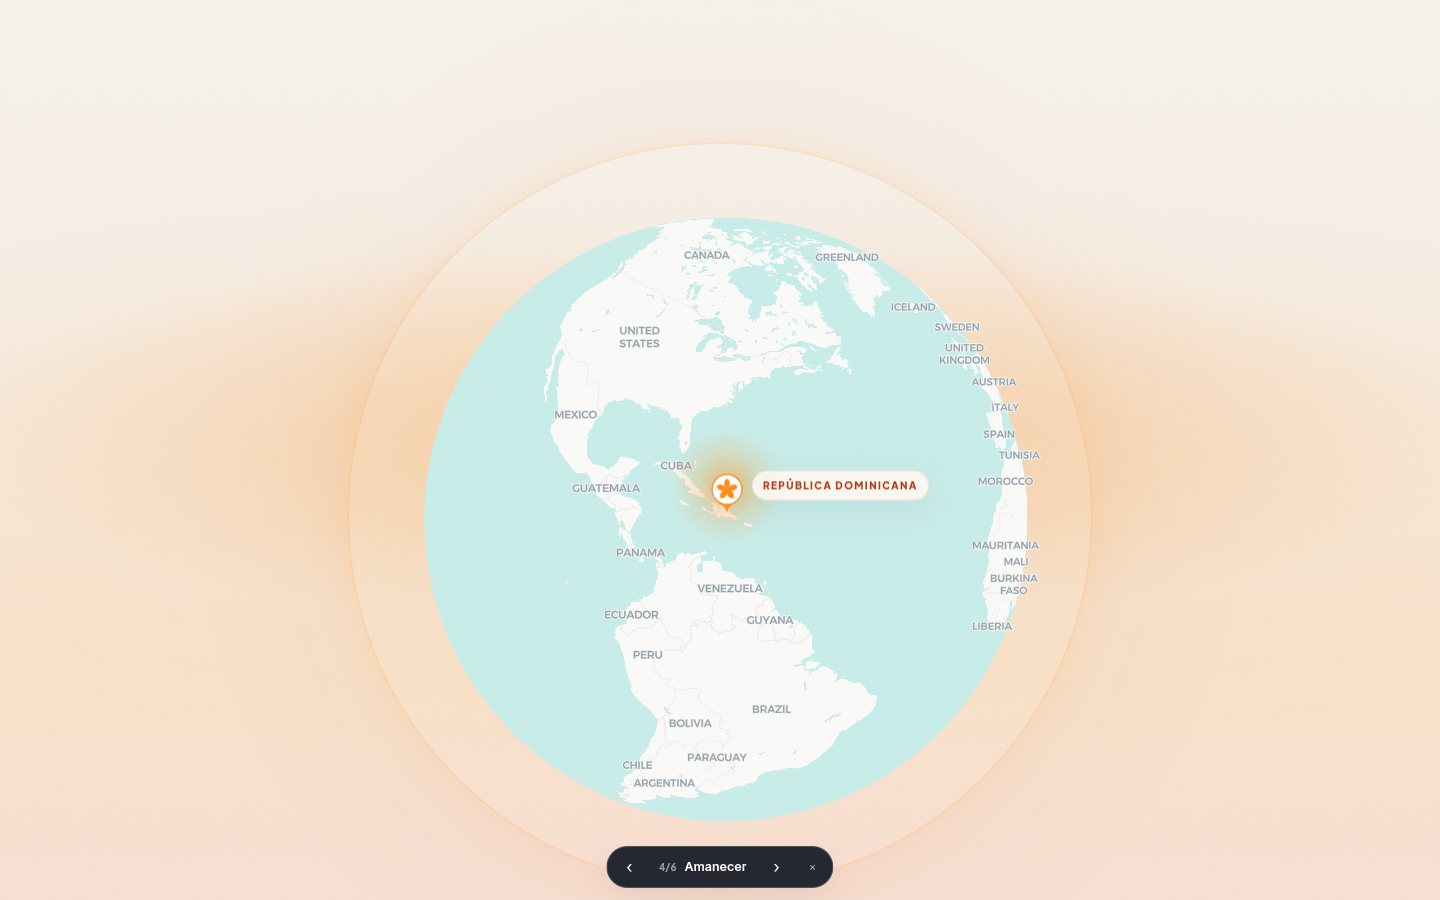
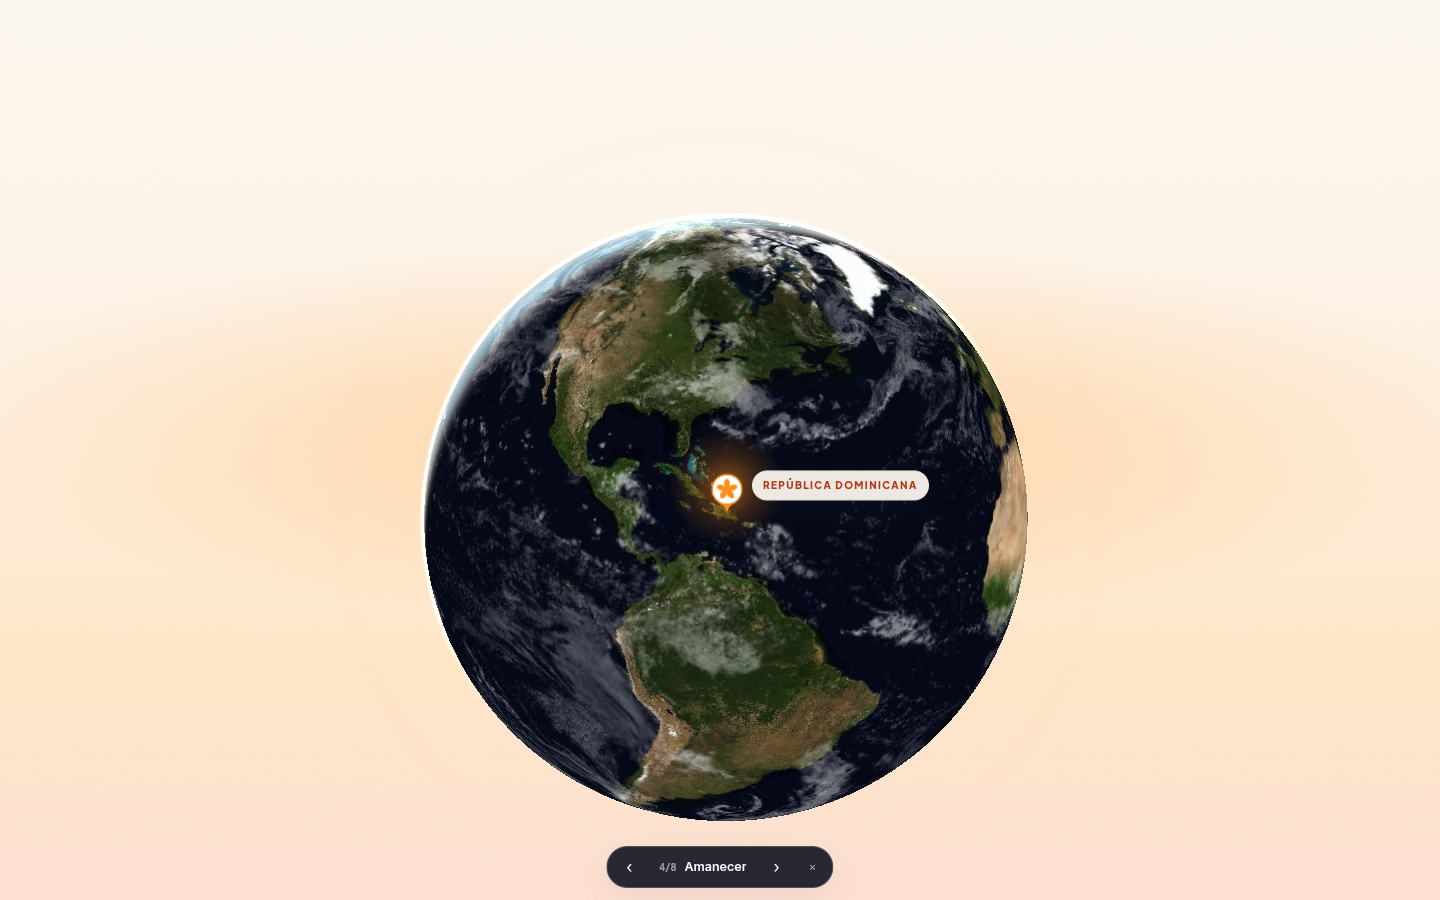
feat(heroes): amanecer desde el espacio, con la Tierra de la NASA, nubes y atmósfera

Changed region(s): [[0.2812, 0.2178, 0.7188, 0.9333]]

diff --git a/src/app/heroes/amanecer/Espacio.tsx b/src/app/heroes/amanecer/Espacio.tsx
@@ -1,0 +1,120 @@
+"use client";
+
+import { useEffect, useRef } from "react";
+import type maplibregl from "maplibre-gl";
+import { useMap } from "@/components/map/context";
+import { useDescenso } from "../_components/GloboHero";
+
+// ─────────────────────────────────────────────────────────────────────────────
+//  La Tierra de verdad sobre el globo del journey.
+//
+//  Tres capas encima del estilo de marca, todas de la NASA:
+//   · `noche`: Black Marble (luces de ciudad, VIIRS 2012). Es lo que se ve
+//     desde el espacio mientras manda el hero: el país es sus luces.
+//   · `dia`: Blue Marble Next Generation. Entra con el amanecer.
+//   · `nubes`: el mapa global de nubes, reproyectado a Mercator y con el
+//     brillo convertido en alfa (public/assets/nubes.webp).
+//
+//  Las teselas vienen de GIBS (gibs.earthdata.nasa.gov), sin clave y con CORS
+//  abierto, hasta el nivel 8: de sobra para el vuelo, que las suelta antes del
+//  primer plano. Al bajar, las opacidades siguen a `--descenso`: luces → día →
+//  mapa de marca, así que la cámara aterriza en el estilo del sitio.
+// ─────────────────────────────────────────────────────────────────────────────
+
+const GIBS = "https://gibs.earthdata.nasa.gov/wmts/epsg3857/best";
+const TESELAS = (capa: string) =>
+  `${GIBS}/${capa}/default/500m/GoogleMapsCompatible_Level8/{z}/{y}/{x}.jpg`;
+
+/** Esquinas del mapa de nubes: el mundo entero en Mercator. */
+const MUNDO: [[number, number], [number, number], [number, number], [number, number]] = [
+  [-180, 85.0511],
+  [180, 85.0511],
+  [180, -85.0511],
+  [-180, -85.0511],
+];
+
+const clamp01 = (x: number) => (x < 0 ? 0 : x > 1 ? 1 : x);
+/** 0 en `a`, 1 en `b`, lineal entre medias. */
+const rampa = (t: number, a: number, b: number) => clamp01((t - a) / (b - a));
+
+/** Opacidad de cada capa según el descenso (0 = hero, 1 = aterrizaje).
+ *  Las nubes se van antes que la Tierra de día: la textura es de 1024 px y de
+ *  cerca se rompe en bloques. El día cede al mapa de marca antes de que las
+ *  teselas de nivel 8 se vean borrosas; las etiquetas del estilo vuelven justo
+ *  después, cuando ya se aterriza sobre el mapa del sitio. */
+function opacidades(t: number) {
+  return {
+    noche: 1 - rampa(t, 0.12, 0.42),
+    dia: Math.min(rampa(t, 0.08, 0.36), 1 - rampa(t, 0.5, 0.72)),
+    // De noche las nubes se insinúan; con el día se ven enteras.
+    nubes: (0.42 + 0.5 * rampa(t, 0.08, 0.36)) * (1 - rampa(t, 0.4, 0.58)),
+    etiquetas: rampa(t, 0.62, 0.82),
+  };
+}
+
+export default function Espacio() {
+  const map = useMap();
+  const { t } = useDescenso();
+  const listo = useRef(false);
+  /** Capas de texto e iconos del estilo de marca, que la imagen tapa. */
+  const simbolos = useRef<string[]>([]);
+
+  const pintarEtiquetas = (m: maplibregl.Map, op: number) => {
+    for (const id of simbolos.current) {
+      m.setPaintProperty(id, "text-opacity", op);
+      m.setPaintProperty(id, "icon-opacity", op);
+    }
+  };
+
+  // Fuentes y capas, una vez. El mapa llega ya cargado (el contexto se monta
+  // tras `load`), así que se puede añadir directamente.
+  useEffect(() => {
+    if (!map) return;
+    const inicial = opacidades(0);
+
+    map.addSource("nasa-noche", { type: "raster", tiles: [TESELAS("VIIRS_CityLights_2012")], tileSize: 256, maxzoom: 8 });
+    map.addSource("nasa-dia", { type: "raster", tiles: [TESELAS("BlueMarble_NextGeneration")], tileSize: 256, maxzoom: 8 });
+    map.addSource("nasa-nubes", { type: "image", url: "/assets/nubes.webp", coordinates: MUNDO });
+
+    map.addLayer({ id: "espacio-dia", type: "raster", source: "nasa-dia", paint: { "raster-opacity": inicial.dia, "raster-fade-duration": 0 } });
+    map.addLayer({ id: "espacio-noche", type: "raster", source: "nasa-noche", paint: { "raster-opacity": inicial.noche, "raster-fade-duration": 0 } });
+    map.addLayer({ id: "espacio-nubes", type: "raster", source: "nasa-nubes", paint: { "raster-opacity": inicial.nubes, "raster-fade-duration": 0 } });
+
+    // Las etiquetas del estilo (continentes, países) se apagan mientras manda
+    // la imagen: sobre la Tierra de verdad, "NORTH AMERICA" en gris sobra.
+    simbolos.current = (map.getStyle().layers ?? []).filter((l) => l.type === "symbol").map((l) => l.id);
+    pintarEtiquetas(map, inicial.etiquetas);
+
+    // La atmósfera del globo, que GloboHero apaga para recortar el planeta
+    // limpio contra el crema. Aquí el planeta está en el espacio y la quiere.
+    map.setSky({ "atmosphere-blend": 1 });
+    listo.current = true;
+
+    return () => {
+      listo.current = false;
+      if (!map.getStyle()) return;
+      for (const id of ["espacio-nubes", "espacio-noche", "espacio-dia"]) {
+        if (map.getLayer(id)) map.removeLayer(id);
+      }
+      for (const id of ["nasa-nubes", "nasa-noche", "nasa-dia"]) {
+        if (map.getSource(id)) map.removeSource(id);
+      }
+      pintarEtiquetas(map, 1);
+      map.setSky({ "atmosphere-blend": 0 });
+    };
+  }, [map]);
+
+  // El crossfade sigue al scroll.
+  useEffect(() => {
+    if (!map || !listo.current) return;
+    const op = opacidades(t);
+    map.setPaintProperty("espacio-noche", "raster-opacity", op.noche);
+    map.setPaintProperty("espacio-dia", "raster-opacity", op.dia);
+    map.setPaintProperty("espacio-nubes", "raster-opacity", op.nubes);
+    pintarEtiquetas(map, op.etiquetas);
+    // La atmósfera se queda hasta que el planeta llena la pantalla.
+    map.setSky({ "atmosphere-blend": 1 - rampa(t, 0.5, 0.8) });
+  }, [map, t]);
+
+  return null;
+}

diff --git a/src/app/heroes/amanecer/estilos.module.css b/src/app/heroes/amanecer/estilos.module.css
@@ -46,7 +46,11 @@
   position: absolute;
   inset: 0;
   opacity: var(--noche-op);
-  background: linear-gradient(180deg, #090f1b 0%, #0f1a2e 58%, #1a2540 100%);
+  /* Estrellas estáticas sobre la tinta. La imagen se generó una vez
+     (public/assets/estrellas.png) y no se anima: el cielo no parpadea. */
+  background:
+    url("/assets/estrellas.png") center / cover no-repeat,
+    linear-gradient(180deg, #070c17 0%, #0f1a2e 62%, #1a2540 100%);
 }
 
 /* El día: el cielo cálido de la web, que va cubriendo la noche conforme se
@@ -82,7 +86,9 @@
   pointer-events: none;
 }
 
-/* El limbo: un filo de luz y dos halos, todos por fuera de la silueta. */
+/* El filo del amanecer sobre el limbo. La atmósfera de verdad (el halo azul
+   del globo) la dibuja MapLibre; esto es sólo la luz cálida que entra con el
+   día, por fuera de la silueta. */
 .atmosfera {
   position: absolute;
   left: 50%;
@@ -91,11 +97,11 @@
   height: calc(var(--globo-r) * 2);
   margin: calc(var(--globo-r) * -1) 0 0 calc(var(--globo-r) * -1);
   border-radius: 50%;
-  opacity: var(--noche-op);
+  opacity: calc(min(1, 0.35 + var(--t) * 2.2) * max(0, var(--noche-op)));
   box-shadow:
-    0 0 0 1.5px rgba(255, 141, 22, 0.85),
-    0 0 28px 5px rgba(255, 141, 22, 0.5),
-    0 0 130px 34px rgba(224, 85, 47, 0.26);
+    0 0 0 1px rgba(255, 141, 22, 0.55),
+    0 0 30px 6px rgba(255, 141, 22, 0.32),
+    0 0 130px 34px rgba(224, 85, 47, 0.2);
 }
 
 /* ═══ Overlay ═════════════════════════════════════════════════════════════ */
@@ -171,6 +177,23 @@
   background: var(--color-coral);
   color: var(--color-paper);
   flex: none;
+}
+
+/* Crédito de las imágenes: obligatorio para GIBS. En producción iría al pie
+   del sitio con el resto de créditos fotográficos. */
+.credito {
+  position: absolute;
+  right: 16px;
+  top: 26px;
+  color: rgba(255, 255, 255, 0.55);
+  opacity: calc(1 - var(--t) * 4);
+}
+
+@media (min-width: 900px) {
+  .credito {
+    top: auto;
+    bottom: 12px;
+  }
 }
 
 /* ═══ Marcadores ══════════════════════════════════════════════════════════ */

diff --git a/src/app/heroes/amanecer/page.tsx b/src/app/heroes/amanecer/page.tsx
@@ -3,6 +3,7 @@ import GloboHero from "../_components/GloboHero";
 import CapaHero from "./CapaHero";
 import Cielo from "./Cielo";
 import Contenido from "./Contenido";
+import Espacio from "./Espacio";
 import Marcadores from "./Marcadores";
 import s from "./estilos.module.css";
 
@@ -15,11 +16,13 @@ export const metadata: Metadata = {
  * «Amanecer»: el planeta de noche, visto desde el espacio.
  *
  * Misma geometría que Horizonte (el canvas baja para que sólo asome el
- * casquete y vuelve a su sitio al descender), pero el cielo es de tinta y el
- * limbo está encendido: lo único que se ve del país es un punto de luz. Al
- * bajar amanece: la tinta se disuelve en el crema del sitio mientras el
- * planeta sube y la cámara aterriza. El hero es la única superficie oscura de
- * la home y el descenso es la transición de tema, una sola vez y con motivo.
+ * casquete y vuelve a su sitio al descender), pero el planeta está en el
+ * espacio: estrellas, la Tierra de noche con sus luces de ciudad, nubes y la
+ * atmósfera del globo (Espacio.tsx). Lo único que se ve del país es un punto
+ * de luz. Al bajar amanece: el cielo pasa a crema, las luces ceden a la Tierra
+ * de día y ésta al mapa de marca justo antes de aterrizar. El hero es la única
+ * superficie oscura de la home y el descenso es la transición, una sola vez y
+ * con motivo.
  */
 export default function AmanecerPage() {
   return (
@@ -29,7 +32,12 @@ export default function AmanecerPage() {
         alturaVh={300}
         className={s.escena}
         fondo={<Cielo />}
-        capasDelMapa={<Marcadores />}
+        capasDelMapa={
+          <>
+            <Espacio />
+            <Marcadores />
+          </>
+        }
       >
         <CapaHero>
           <Contenido />

diff --git a/src/app/heroes/_components/GloboHero.tsx b/src/app/heroes/_components/GloboHero.tsx
@@ -266,7 +266,10 @@ export default function GloboHero({
           touchZoomRotate={interactivo}
           attributionControl={false}
         >
-          {capasDelMapa}
+          {/* Las capas del mapa también leen el descenso: una propuesta puede
+              fundir una capa raster o un marcador con el scroll sin que
+              GloboHero sepa de ella. */}
+          <DescensoContext.Provider value={estado}>{capasDelMapa}</DescensoContext.Provider>
         </Map>
 
         {/* Sin WebGL (o con el CDN del estilo caído) el canvas queda en blanco:

diff --git a/src/app/heroes/amanecer/Contenido.tsx b/src/app/heroes/amanecer/Contenido.tsx
@@ -57,6 +57,10 @@ export default function Contenido() {
       </div>
 
       <CueDescenso />
+
+      <p className={`${s.credito} m-0 font-label text-micro font-semibold`}>
+        Imágenes de la Tierra: NASA GIBS
+      </p>
     </>
   );
 }
